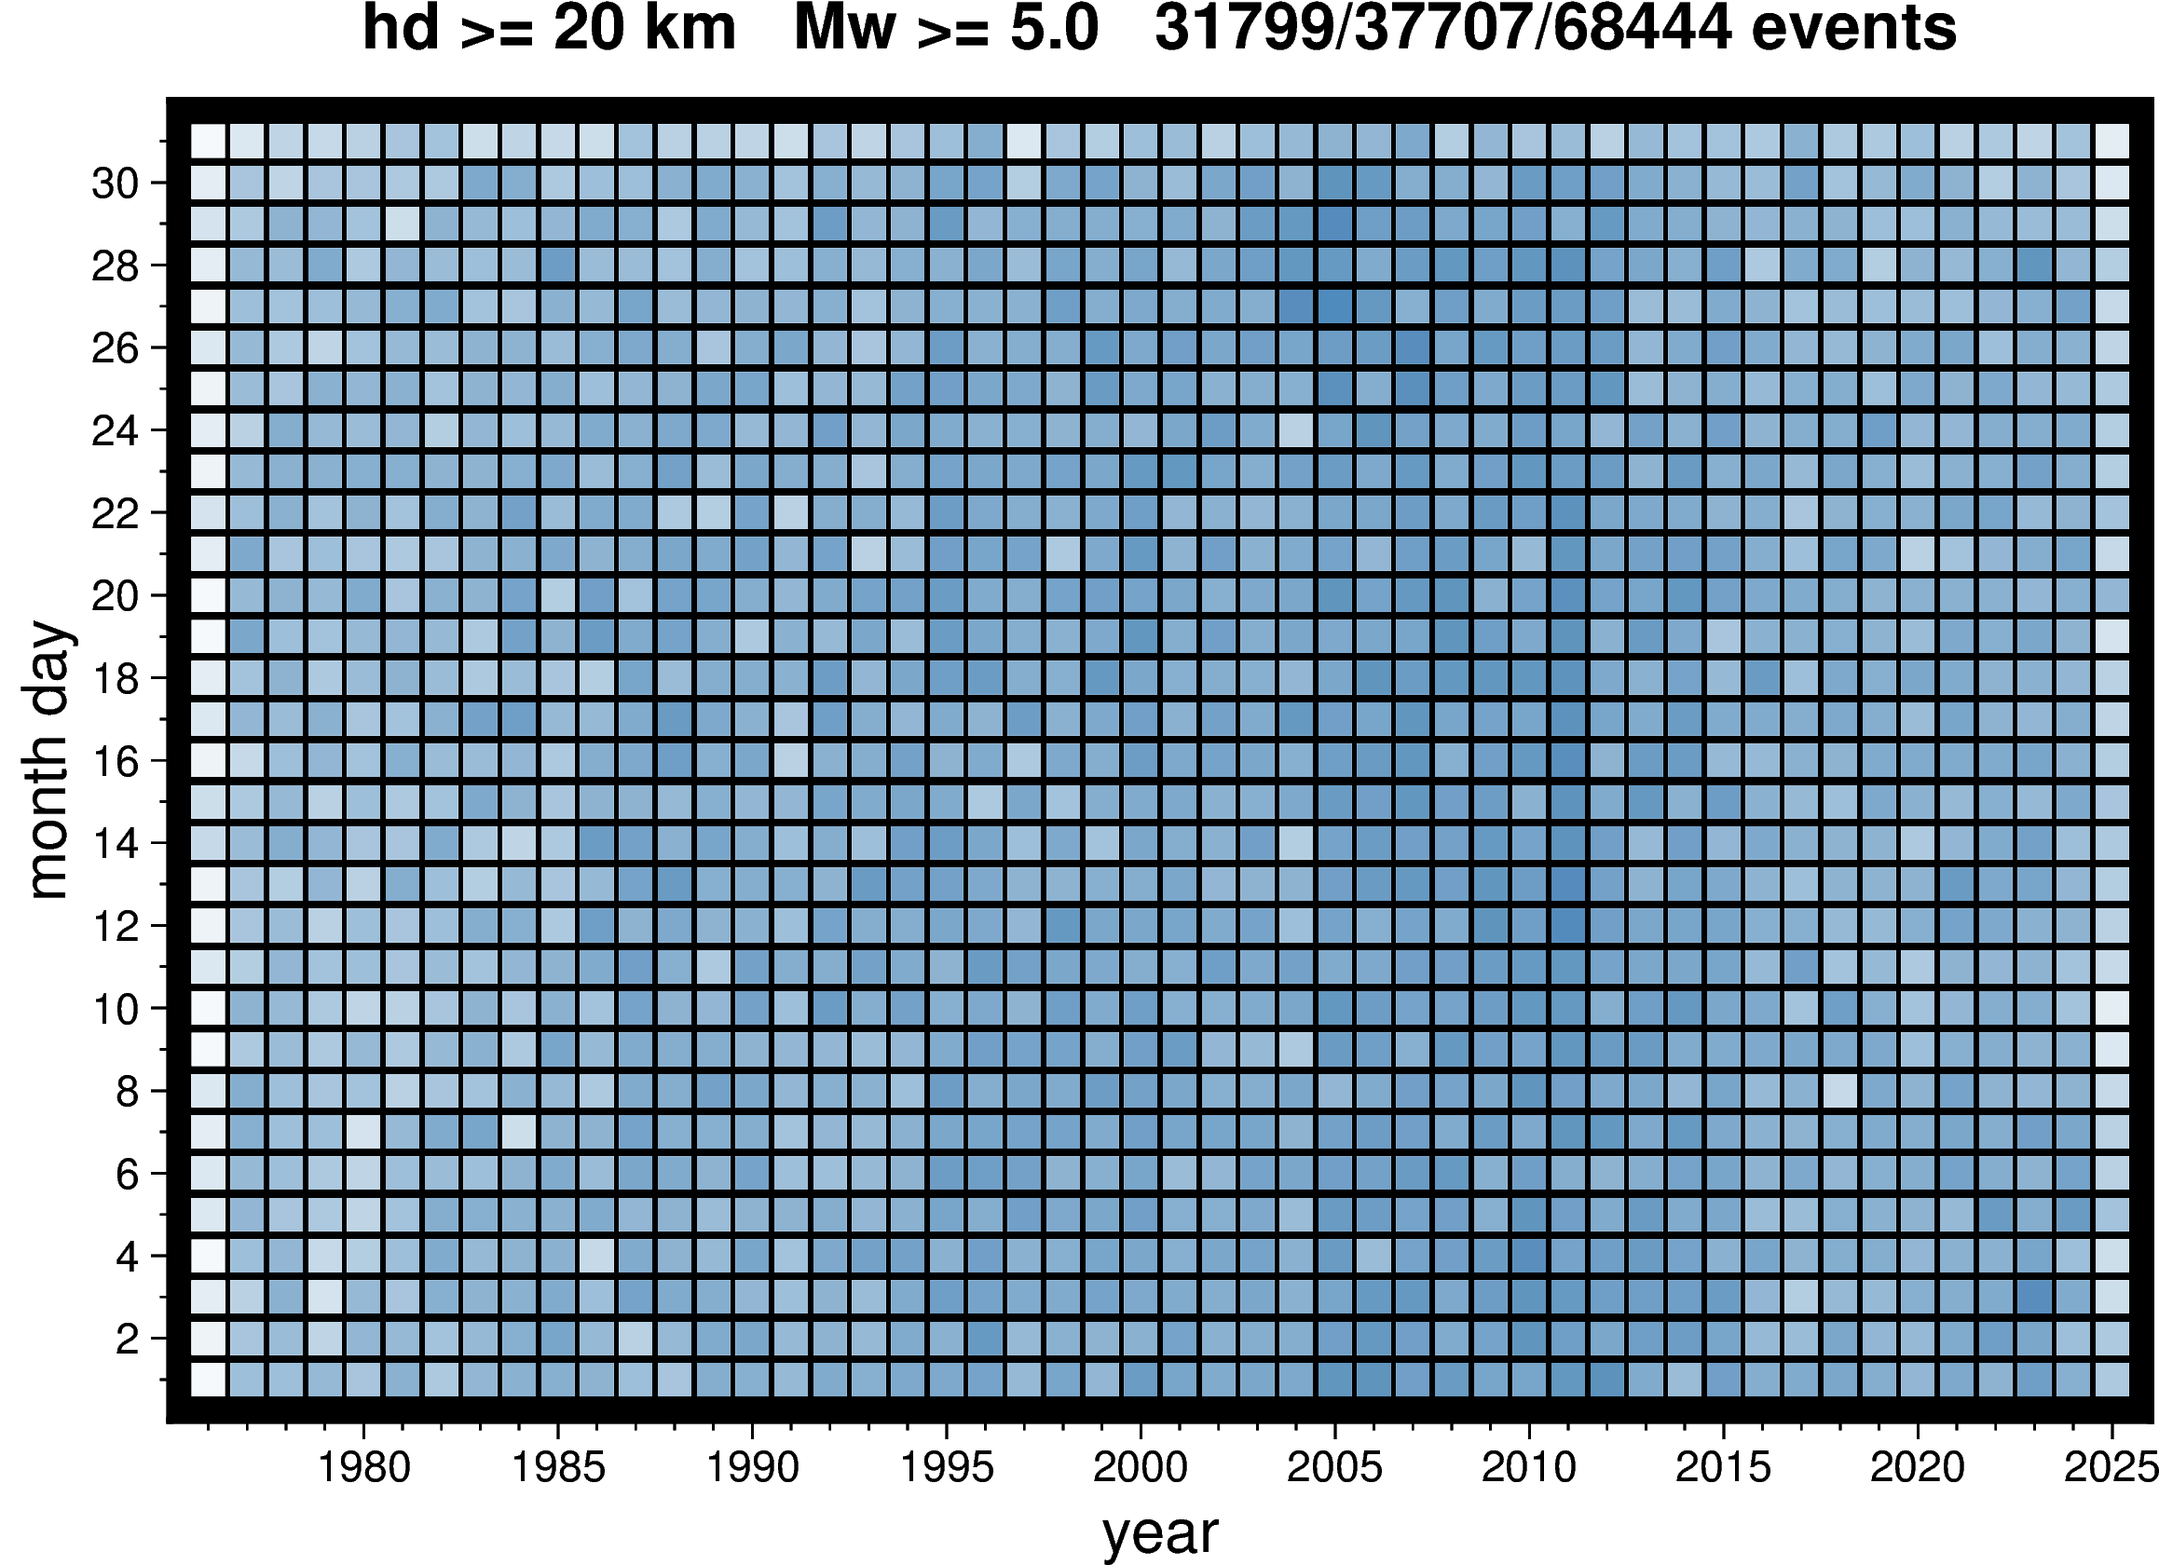
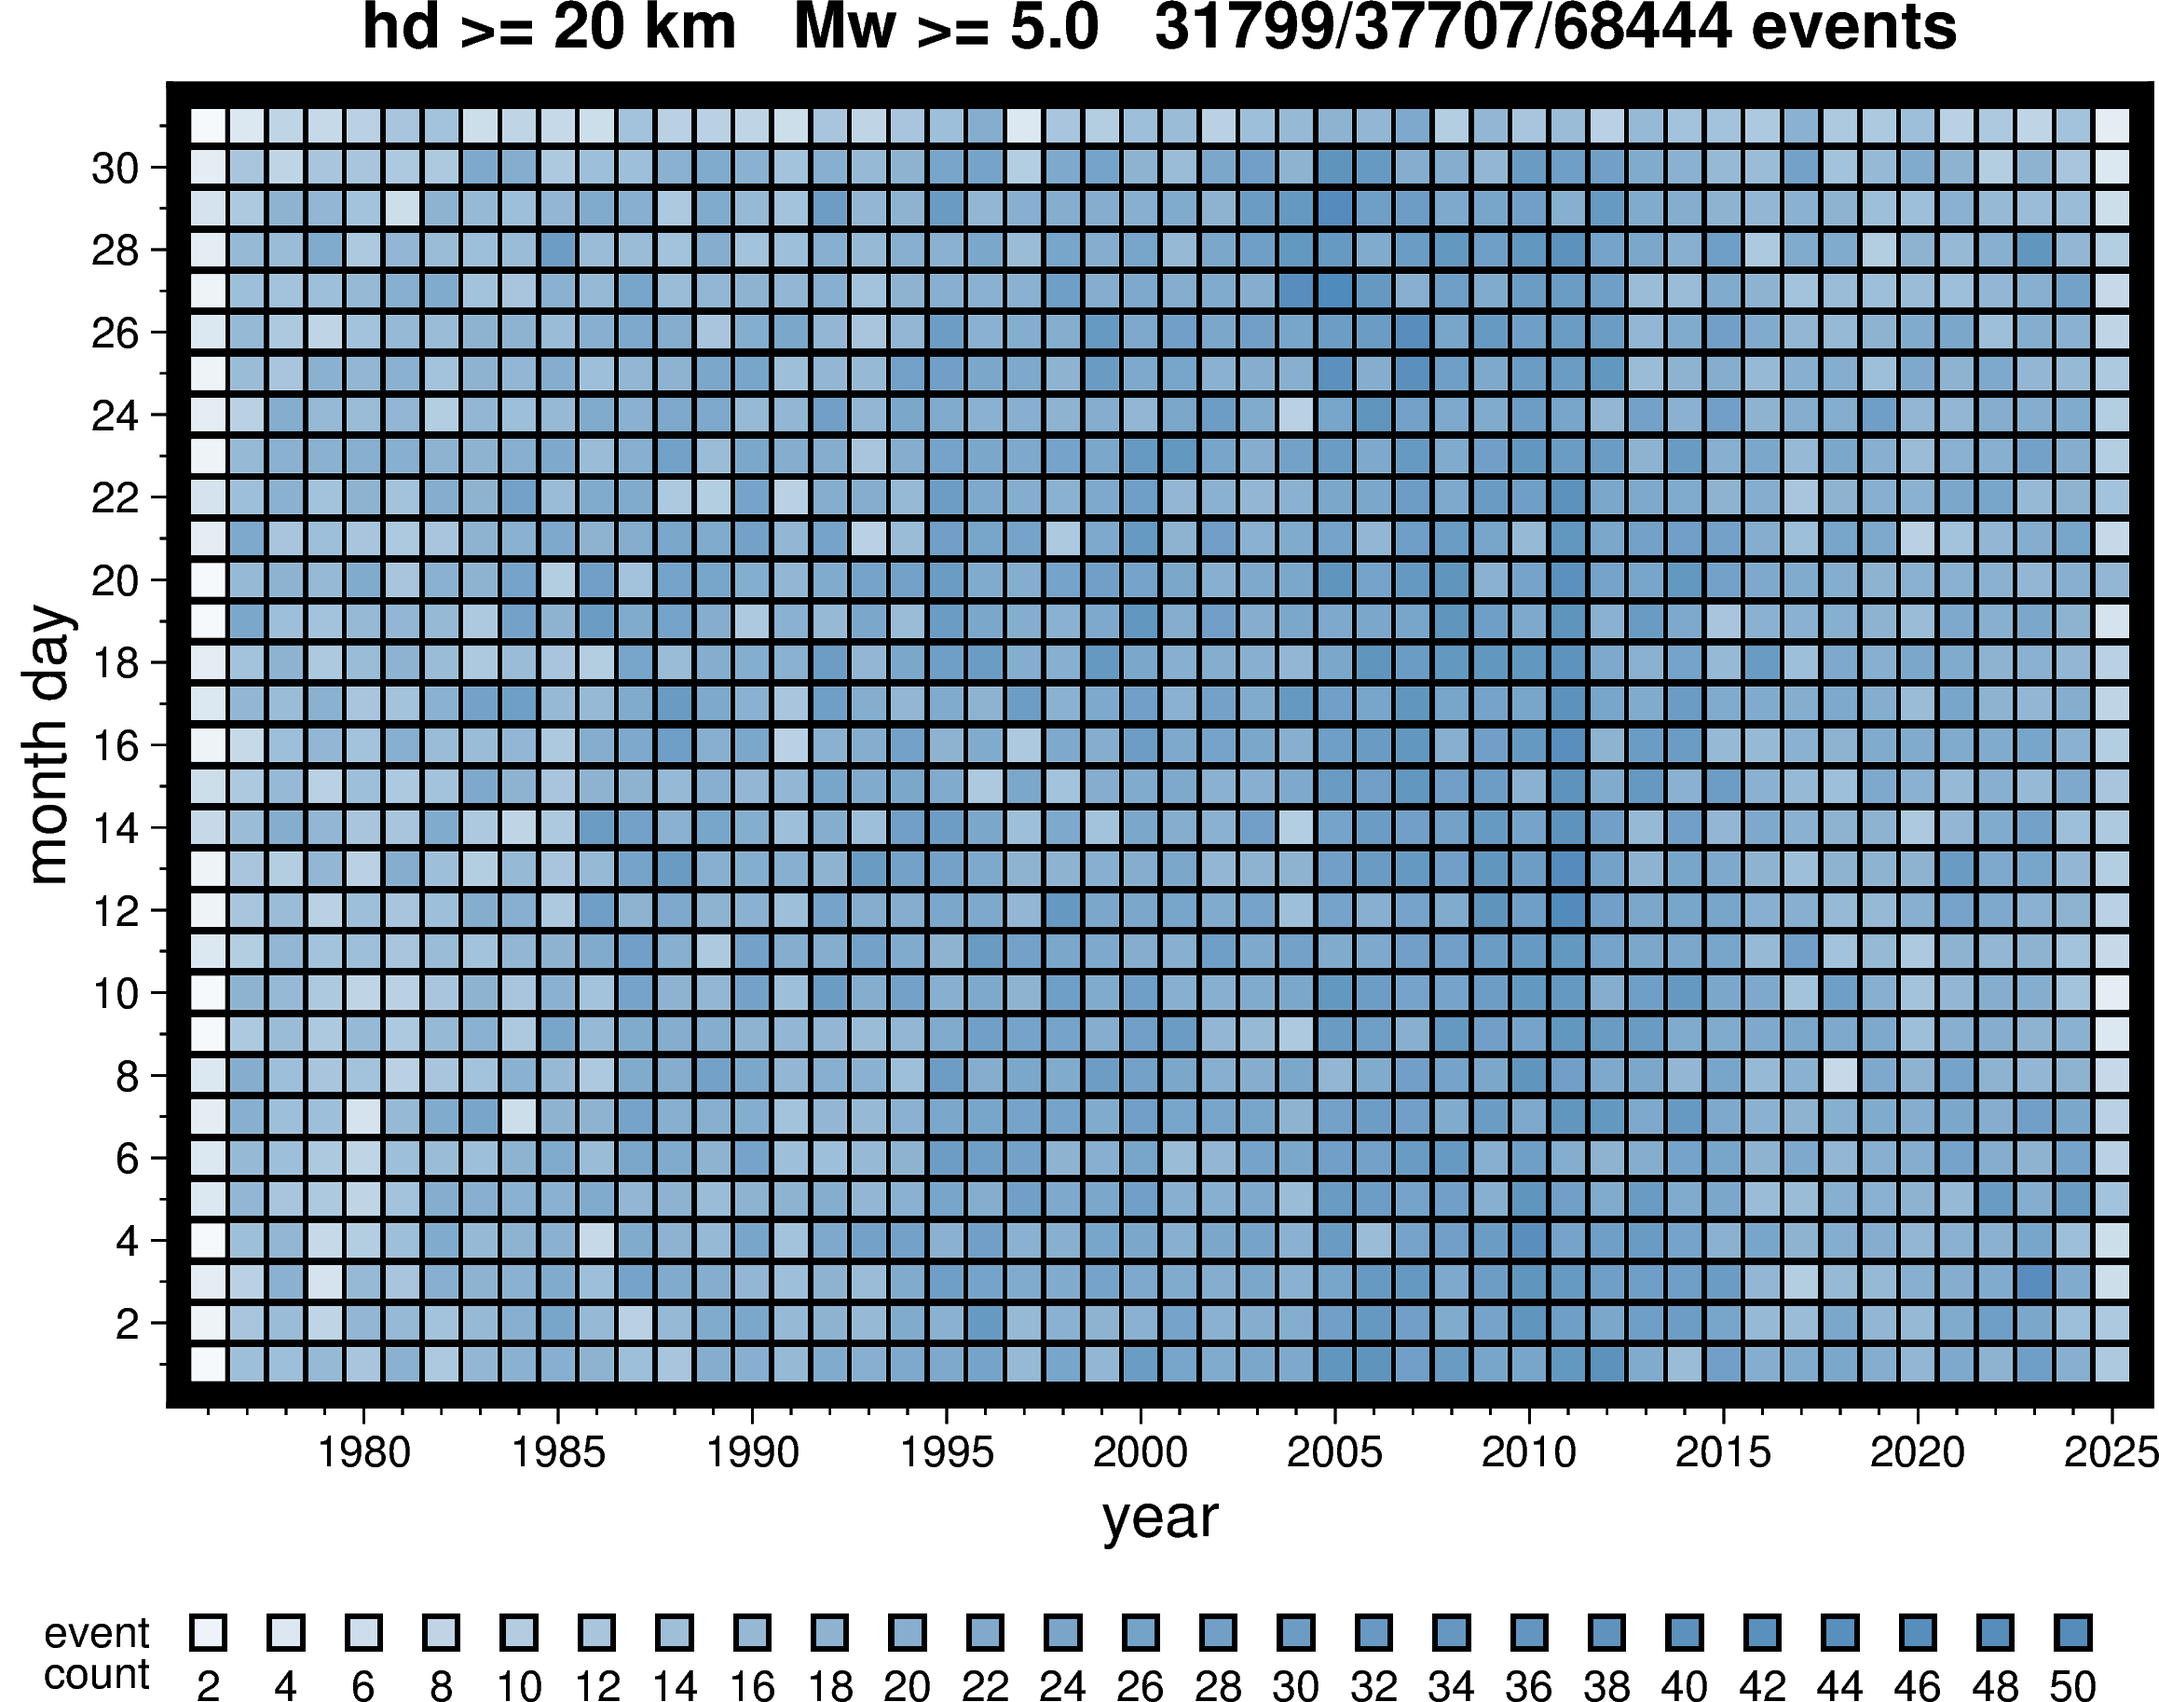
Create and plot legend

diff --git a/005_global_seismicity/seismicity_06_harvardcmt_time.py b/005_global_seismicity/seismicity_06_harvardcmt_time.py
@@ -9,6 +9,7 @@
 # -----------------------------------------------------------------------------
 # History
 # - Created: 2025/09/12
+# - Updated: 2025/09/15 - create legend
 # -----------------------------------------------------------------------------
 # Versions
 # - PyGMT v0.16.0 -> https://www.pygmt.org/v0.16.0/ | https://www.pygmt.org/
@@ -29,7 +30,7 @@ import pygmt as gmt
 # -----------------------------------------------------------------------------
 # Adjust for your needs
 # -----------------------------------------------------------------------------
-# minimum hypocentral depth
+# Set minimum hypocentral depth
 min_depth = 20 # kilometers
 
 # Resolution of output PNG
@@ -61,32 +62,71 @@ df_eq_depth = df_eq_mod[df_eq_mod["depth"] >= min_depth]
 # -----------------------------------------------------------------------------
 # Make Cartesian plot
 # -----------------------------------------------------------------------------
-step_mag = 0.5
-for min_mag in np.arange(4, 10 + step_mag, step_mag):
+start_box = 1976
+end_box = 2025
+len_box = end_box - start_box
+x_box = np.arange(start_box, end_box + 1, 1)
+step_box = 2
+n_layer = 2
+y_box = -5.5
 
+step_mag = 0.5
+
+for min_mag in np.arange(4, 10 + step_mag, step_mag):
     df_eq_mag = df_eq_depth[df_eq_depth["magnitude"] >= min_mag]
 
+# -----------------------------------------------------------------------------
+    # Set up basic plot
     fig = gmt.Figure()
-
     fig.basemap(
-        region=[1975.01, 2025.99, 0.01, 31.99],
+        region=[start_box - 0.99, end_box + 0.99, 1 - 0.99, 31 + 0.99],
         projection="X15c/10c",
         frame=["WStr", "xa5f1+lyear", "ya2f1+lmonth day"],
     )
-    with gmt.config(FONT="14p"):
+    with gmt.config(FONT="14p", MAP_TITLE_OFFSET="8p"):
         fig.basemap(
             frame= f"+thd >= {min_depth} km   Mw >= {min_mag}   " + \
                 f"{len(df_eq_mag)}/{len(df_eq_depth)}/{len(df_eq_mod)} events+gblack"
         )
 
+# -----------------------------------------------------------------------------
+    # Plot data points with semi-transparency to indicate density
     if len(df_eq_mag) > 0:
         args_plot = {"x": df_eq_mag["year"], "y": df_eq_mag["day"], "style": "s0.35c"}
         fig.plot(fill="white", **args_plot)
         fig.plot(fill="steelblue@95", **args_plot)
 
+# -----------------------------------------------------------------------------
+    # Create legend
+    for i_box, box in enumerate(np.arange(0, len_box, step_box)):
+        x_box_temp = x_box[box:len_box:step_box]
+
+        for i_layer in range(n_layer):
+            fig.plot(
+                x=x_box_temp,
+                y=[y_box] * len(x_box_temp),
+                style="s0.35c",
+                fill="steelblue@95",
+                pen="1p,black",
+                no_clip=True
+            )
+
+        fig.text(
+            text=(i_box + 1) * n_layer,
+            x=x_box[box],
+            y=y_box,
+            offset="0c/-0.4c",
+            no_clip=True,
+        )
+
+    args_text = {"x": start_box - 1.5, "justify": "RM", "no_clip": True}
+    fig.text(y=y_box, text="event", **args_text)
+    fig.text(y=y_box - 1, text="count", **args_text)
+
+# -----------------------------------------------------------------------------
     fig.show()
     fig_name = "plot_harvardcmt_1976to2025_mw" + "p".join(str(min_mag).split(".")) + \
-                f"_year_day_depth{min_depth}km"
-    # for ext in ["png"]:  # "pdf", "eps"
-    #     fig.savefig(fname=f"{path_out}/{fig_name}.{ext}", dpi=dpi_png)
+            f"_year_day_depth{min_depth}km"
+    for ext in ["png"]:  # "pdf", "eps"
+        fig.savefig(fname=f"{path_out}/{fig_name}.{ext}", dpi=dpi_png)
     print(fig_name)
